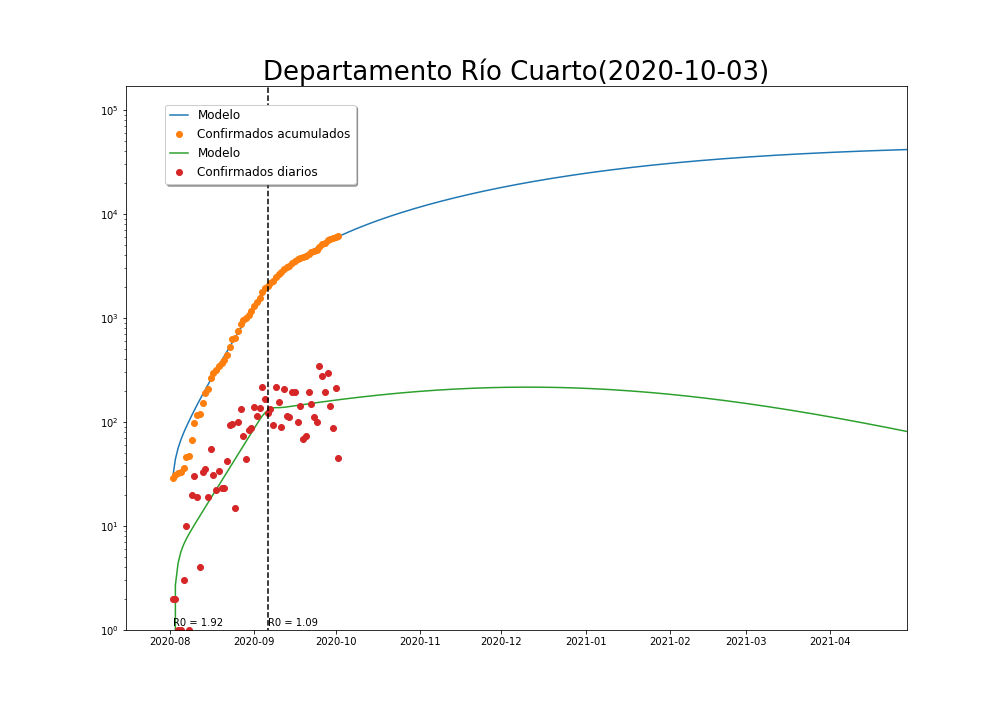
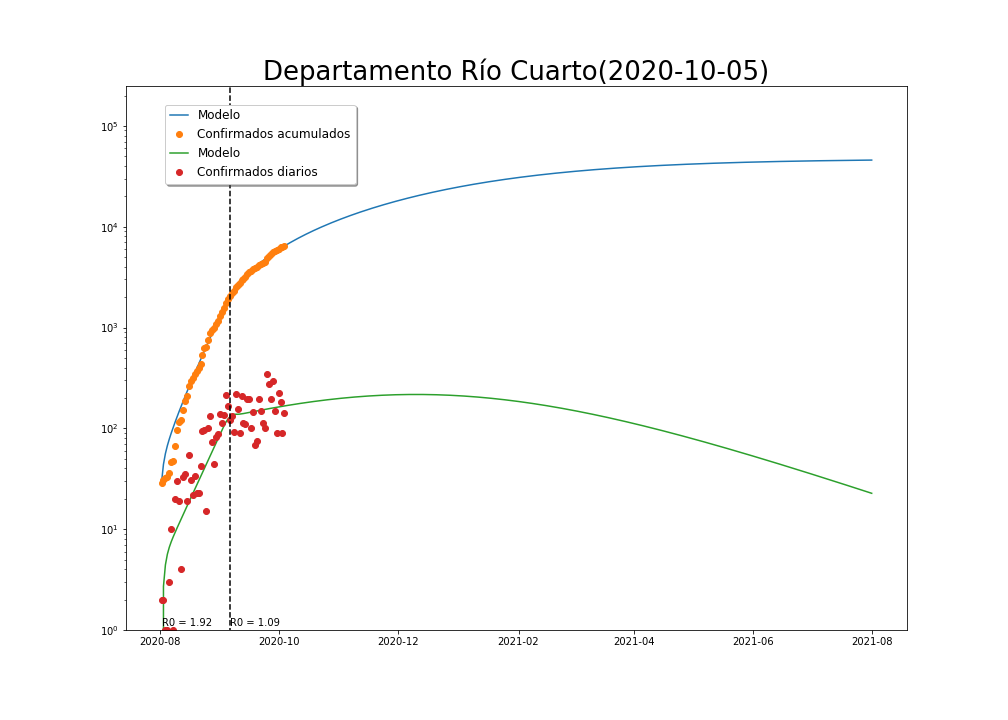
fiteo 5/10

diff --git a/README.md b/README.md
@@ -18,7 +18,7 @@
 <h2> Córdoba </h2>
 **Casos acumulados 01/04/2020-02/10/2020**
 
-<video width="960" height="720" controls>
+<video width="640" height="480" controls>
  <source src="video/PandemiaCOVID19Cordoba.mp4" type="video/mp4">
 </video>
 
